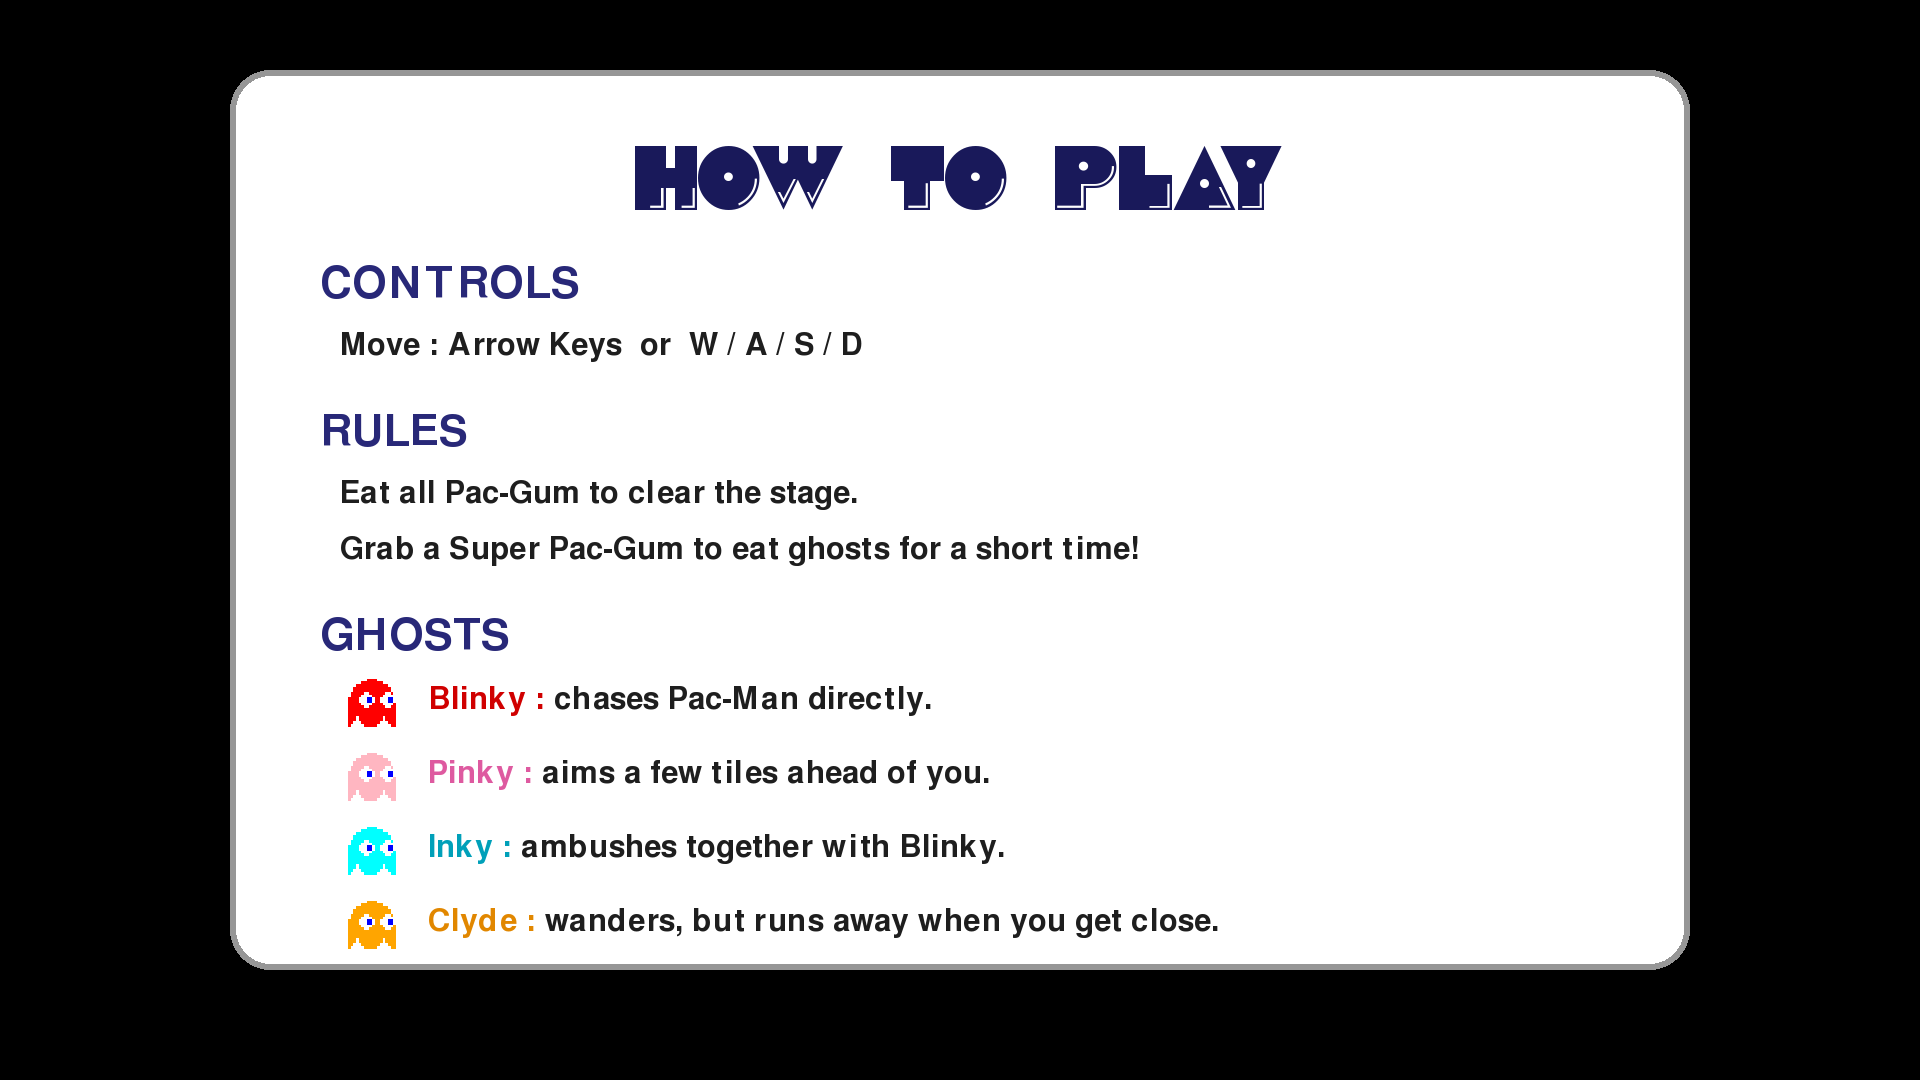
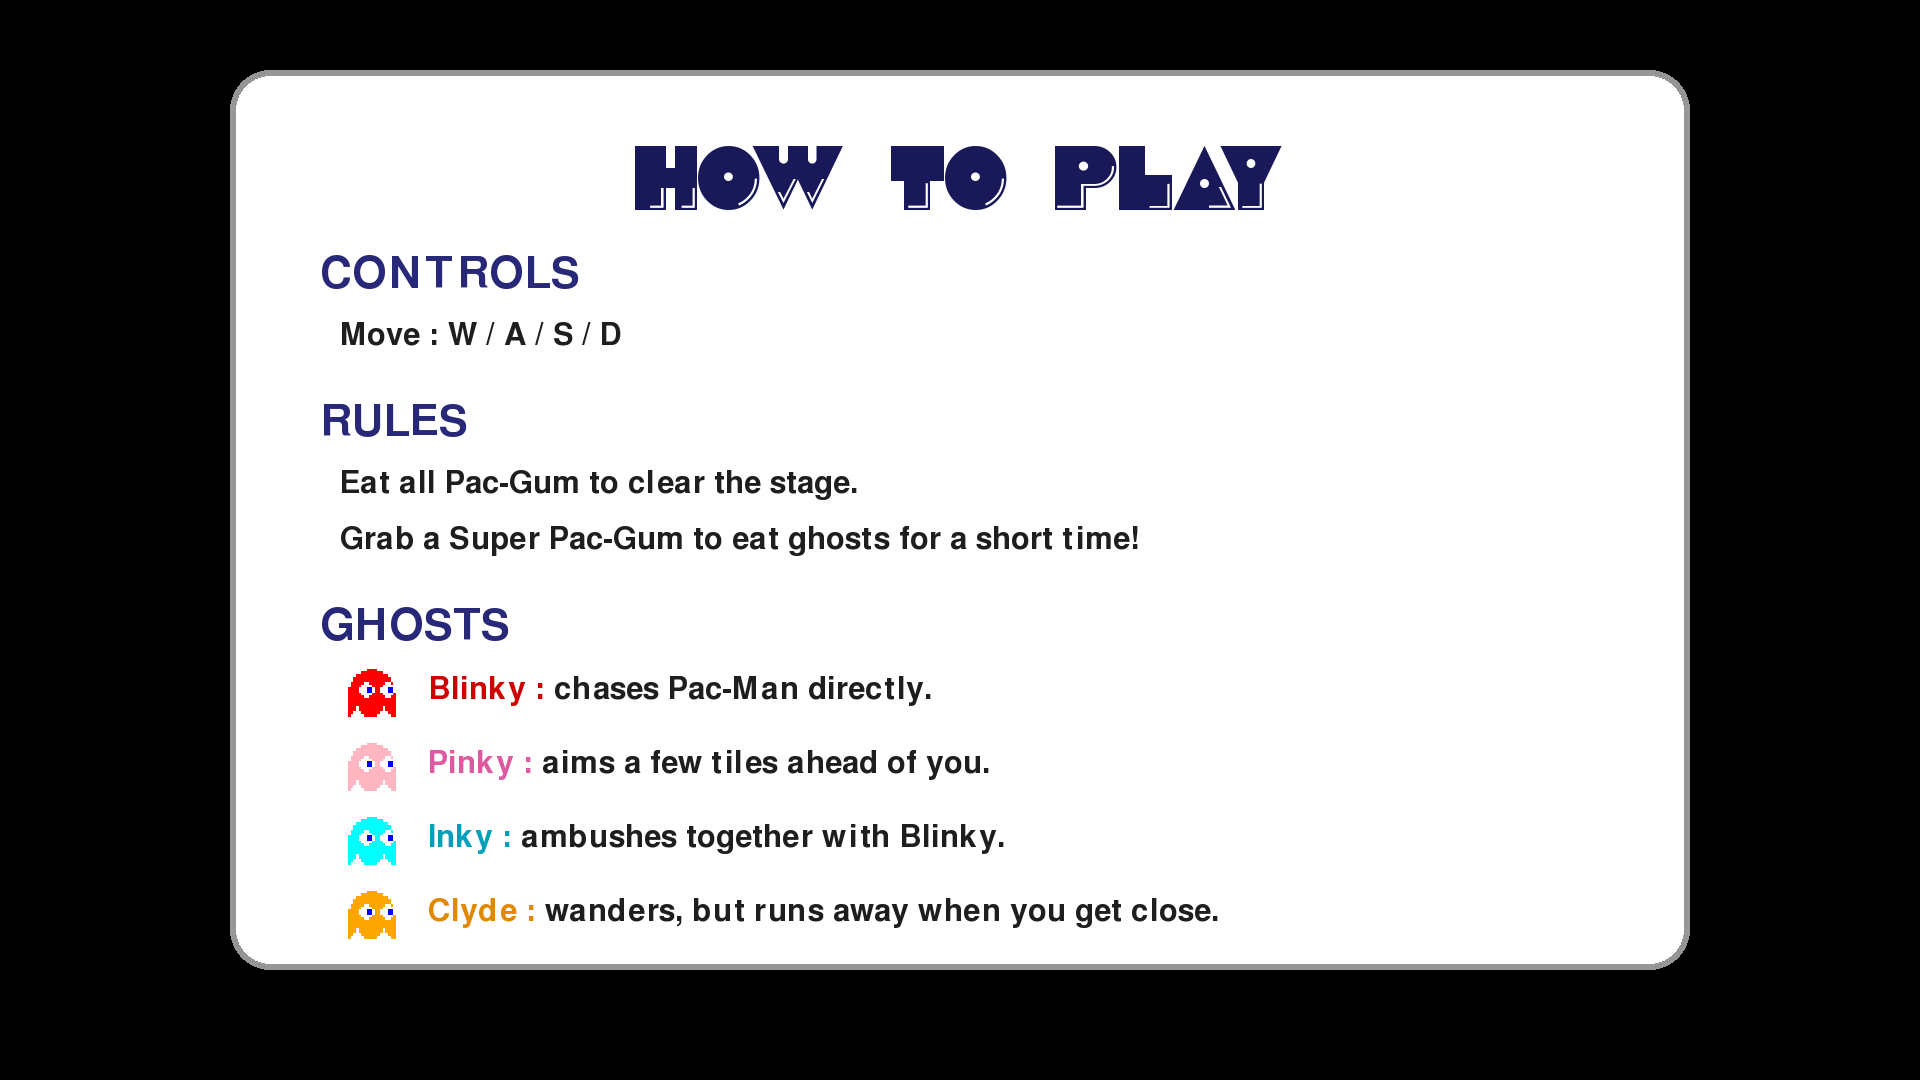
add: pacfont_32_yellow/gray color

diff --git a/txt.py b/txt.py
@@ -1,6 +1,7 @@
 # generate_assets.py (画像生成専用スクリプト)
-import pygame
 import os
+
+import pygame
 
 
 def create_pacman_images(output_dir: str) -> None:
@@ -16,32 +17,18 @@ def create_pacman_images(output_dir: str) -> None:
     pygame.image.save(surface, os.path.join(output_dir, "PACMAN_right_32.png"))
 
 
-def create_font_upper_images(output_dir: str) -> None:
+def create_font_pac_images(output_dir: str) -> None:
     pygame.font.init()
     # フォントを使用指定
-    font = pygame.font.Font("data/font/pacmania/Pacmania.otf", 256)  # フォントサイズ256
+    font = pygame.font.Font("data/font/pacmania/Pacmania.otf", 32)  # フォントサイズ256
 
-    for char_code in range(ord('A'), ord('Z') + 1):
+    for char_code in range(ord("A"), ord("Z") + 1):
         char = chr(char_code)
         # 文字を画像化（黄色）
         text_surface = font.render(char, True, (255, 255, 0))
-        pygame.image.save(text_surface, os.path.join(output_dir, f"PAC-FONT_{char}.png"))
-
-    # ハイフンの文字画像を生成
-    text_surface = font.render(chr(45), True, (255, 255, 0))
-    pygame.image.save(text_surface, os.path.join(output_dir, "PAC-FONT_-.png"))
-
-
-def create_font_lower_images(output_dir: str) -> None:
-    pygame.font.init()
-    # フォントを使用
-    font = pygame.font.Font("data/font/pacmania/Pacmania.otf", 128)  # フォントサイズ128
-
-    for char_code in range(ord('a'), ord('z') + 1):
-        char = chr(char_code)
-        # 文字を画像化（黄色）
-        text_surface = font.render(char, True, (255, 255, 0))
-        pygame.image.save(text_surface, os.path.join(output_dir, f"PAC-FONT_{char}.png"))
+        pygame.image.save(
+            text_surface, os.path.join(output_dir, f"PAC-FONT_{char}.png")
+        )
 
     # ハイフンの文字画像を生成
     text_surface = font.render(chr(45), True, (255, 255, 0))
@@ -54,25 +41,31 @@ def create_font_misaki_images(output_dir: str) -> None:
     font = pygame.font.Font("data/font/misaki/misaki_gothic_2nd.ttf", 24)
 
     # A〜Zまでの文字画像をループで一気に生成
-    for char_code in range(ord('A'), ord('Z') + 1):
+    for char_code in range(ord("A"), ord("Z") + 1):
         char = chr(char_code)
         # 文字を画像化（黄色）
         text_surface = font.render(char, True, (255, 255, 255))
-        pygame.image.save(text_surface, os.path.join(output_dir, f"misaki-FONT_{char}.png"))
+        pygame.image.save(
+            text_surface, os.path.join(output_dir, f"misaki-FONT_{char}.png")
+        )
 
     # a〜zまでの文字画像をループで一気に生成
-    for char_code in range(ord('a'), ord('z') + 1):
+    for char_code in range(ord("a"), ord("z") + 1):
         char = chr(char_code)
         # 文字を画像化（黄色）
         text_surface = font.render(char, True, (255, 255, 255))
-        pygame.image.save(text_surface, os.path.join(output_dir, f"misaki-FONT_{char}.png"))
+        pygame.image.save(
+            text_surface, os.path.join(output_dir, f"misaki-FONT_{char}.png")
+        )
 
     # 0~9までの文字画像をループで一気に生成
-    for char_code in range(ord('0'), ord('9') + 1):
+    for char_code in range(ord("0"), ord("9") + 1):
         char = chr(char_code)
         # 文字を画像化（白色）
         text_surface = font.render(char, True, (255, 255, 255))
-        pygame.image.save(text_surface, os.path.join(output_dir, f"misaki-FONT_{char}.png"))
+        pygame.image.save(
+            text_surface, os.path.join(output_dir, f"misaki-FONT_{char}.png")
+        )
 
     # ハイフンの文字画像を生成
     text_surface = font.render(chr(45), True, (255, 255, 255))
@@ -89,25 +82,31 @@ def create_font_none_images(output_dir: str) -> None:
     font = pygame.font.Font(None, 128)
 
     # A〜Zまでの文字画像をループで一気に生成
-    for char_code in range(ord('A'), ord('Z') + 1):
+    for char_code in range(ord("A"), ord("Z") + 1):
         char = chr(char_code)
         # 文字を画像化（黄色）
         text_surface = font.render(char, True, (255, 255, 255))
-        pygame.image.save(text_surface, os.path.join(output_dir, f"none-FONT_{char}.png"))
+        pygame.image.save(
+            text_surface, os.path.join(output_dir, f"none-FONT_{char}.png")
+        )
 
     # a〜zまでの文字画像をループで一気に生成
-    for char_code in range(ord('a'), ord('z') + 1):
+    for char_code in range(ord("a"), ord("z") + 1):
         char = chr(char_code)
         # 文字を画像化（黄色）
         text_surface = font.render(char, True, (255, 255, 255))
-        pygame.image.save(text_surface, os.path.join(output_dir, f"none-FONT_{char}.png"))
+        pygame.image.save(
+            text_surface, os.path.join(output_dir, f"none-FONT_{char}.png")
+        )
 
     # 0~9までの文字画像をループで一気に生成
-    for char_code in range(ord('0'), ord('9') + 1):
+    for char_code in range(ord("0"), ord("9") + 1):
         char = chr(char_code)
         # 文字を画像化（白色）
         text_surface = font.render(char, True, (255, 255, 255))
-        pygame.image.save(text_surface, os.path.join(output_dir, f"none-FONT_{char}.png"))
+        pygame.image.save(
+            text_surface, os.path.join(output_dir, f"none-FONT_{char}.png")
+        )
 
     # ハイフンの文字画像を生成
     text_surface = font.render(chr(45), True, (255, 255, 255))
@@ -121,9 +120,9 @@ def create_font_none_images(output_dir: str) -> None:
 def create_dither_images(output_dir: str) -> pygame.Surface:
     """画面全体を覆う半透明のSurfaceを作成する。
 
-        Args:
-            width (int): Surfaceの幅。
-            height (int): Surfaceの高さ。
+    Args:
+        width (int): Surfaceの幅。
+        height (int): Surfaceの高さ。
     """
     black = (0, 0, 0, 255)  # 半透明の黒
     width, height = 1920, 1080  # 画面サイズを指定
@@ -183,10 +182,10 @@ def create_how_to_play_image(output_dir: str) -> None:
     body_color = (30, 30, 30)
     bottom_color = (255, 255, 0)
     ghost_colors = {
-        "blinky": (208, 0, 0),      # 赤
-        "pinky": (222, 90, 160),    # ピンク
-        "inky": (0, 160, 185),      # 水色
-        "clyde": (225, 135, 0),     # オレンジ
+        "blinky": (208, 0, 0),  # 赤
+        "pinky": (222, 90, 160),  # ピンク
+        "inky": (0, 160, 185),  # 水色
+        "clyde": (225, 135, 0),  # オレンジ
     }
 
     # ---- 画面と角丸ボックス ----
@@ -201,8 +200,8 @@ def create_how_to_play_image(output_dir: str) -> None:
     pygame.draw.rect(screen, white, box_rect, border_radius=40)
     pygame.draw.rect(screen, gray, box_rect, width=6, border_radius=40)
 
-    center_x = box_x + box_w // 2   # 画面中央(=960)
-    inner_x = box_x + 90            # 本文の左端
+    center_x = box_x + box_w // 2  # 画面中央(=960)
+    inner_x = box_x + 90  # 本文の左端
 
     # ---- フォント(タイトルはPac風、本文は既定の読みやすいフォント) ----
     title_font = _safe_font("data/font/pacmania/Pacmania.otf", 90)
@@ -215,8 +214,13 @@ def create_how_to_play_image(output_dir: str) -> None:
         """画像をボックス中央に横中央寄せで貼る。"""
         screen.blit(image, (center_x - image.get_width() // 2, top_y))
 
-    def blit_text(text: str, font: pygame.font.Font,
-                  color: tuple[int, int, int], x: int, top_y: int) -> int:
+    def blit_text(
+        text: str,
+        font: pygame.font.Font,
+        color: tuple[int, int, int],
+        x: int,
+        top_y: int,
+    ) -> int:
         """左寄せで文字列を描画し、描画した画像の幅を返す。"""
         image = font.render(text, True, color)
         screen.blit(image, (x, top_y))
@@ -225,23 +229,28 @@ def create_how_to_play_image(output_dir: str) -> None:
     # ---- タイトル ----
     title_image = title_font.render("HOW TO PLAY", True, title_color)
     blit_center(title_image, box_y + 45)
-    y = box_y + 45 + title_image.get_height() + 30
+    y = box_y + 45 + title_image.get_height() + 20
 
     # ---- CONTROLS ----
     blit_text("CONTROLS", heading_font, heading_color, inner_x, y)
     y += 68
-    blit_text("Move : Arrow Keys  or  W / A / S / D",
-              body_font, body_color, inner_x + 20, y)
+    blit_text("Move : W / A / S / D", body_font, body_color, inner_x + 20, y)
     y += 80
 
     # ---- RULES ----
     blit_text("RULES", heading_font, heading_color, inner_x, y)
     y += 68
-    blit_text("Eat all Pac-Gum to clear the stage.",
-              body_font, body_color, inner_x + 20, y)
+    blit_text(
+        "Eat all Pac-Gum to clear the stage.", body_font, body_color, inner_x + 20, y
+    )
     y += 56
-    blit_text("Grab a Super Pac-Gum to eat ghosts for a short time!",
-              body_font, body_color, inner_x + 20, y)
+    blit_text(
+        "Grab a Super Pac-Gum to eat ghosts for a short time!",
+        body_font,
+        body_color,
+        inner_x + 20,
+        y,
+    )
     y += 80
 
     # ---- GHOSTS ----
@@ -258,16 +267,14 @@ def create_how_to_play_image(output_dir: str) -> None:
     for key, name, desc in ghost_lines:
         text_x = inner_x + 20
         # ゴーストのスプライトをアイコンとして左に貼る(無ければ文字だけ)
-        icon_path = os.path.join(
-            "data", "assets", "ghost", f"ghost_{key}_right_0.png")
+        icon_path = os.path.join("data", "assets", "ghost", f"ghost_{key}_right_0.png")
         if os.path.exists(icon_path):
             icon = pygame.image.load(icon_path)
             icon = pygame.transform.scale(icon, (icon_size, icon_size))
             screen.blit(icon, (inner_x + 20, y - 8))
             text_x = inner_x + 20 + icon_size + 24
         # 「名前(ゴースト色)」＋「説明(黒)」を横に並べる
-        name_width = blit_text(
-            f"{name} : ", ghost_font, ghost_colors[key], text_x, y)
+        name_width = blit_text(f"{name} : ", ghost_font, ghost_colors[key], text_x, y)
         blit_text(desc, ghost_font, body_color, text_x + name_width, y)
         y += icon_size + 10
 
@@ -277,16 +284,16 @@ def create_how_to_play_image(output_dir: str) -> None:
 
 if __name__ == "__main__":
     # os.makedirs("data/assets/Pacman", exist_ok=True)
-    # os.makedirs("data/assets/upper_256", exist_ok=True)
+    os.makedirs("data/assets/pacfont_32", exist_ok=True)
     # os.makedirs("data/assets/lower_128", exist_ok=True)
     # os.makedirs("data/assets/nonefont_32", exist_ok=True)
-    os.makedirs("data/assets/dither_images", exist_ok=True)
+    # os.makedirs("data/assets/dither_images", exist_ok=True)
     os.makedirs("data/assets/how_to_play", exist_ok=True)
 
     # create_pacman_images("data/assets/Pacman")
-    # create_font_upper_images("data/assets/upper_256")
+    create_font_pac_images("data/assets/pacfont_32")
     # create_font_lower_images("data/assets/lower_128")
     # create_font_none_images("data/assets/nonefont_32")
-    create_dither_images("data/assets/dither_images")
+    # create_dither_images("data/assets/dither_images")
     create_how_to_play_image("data/assets/how_to_play")
     print("画像の自動生成が完了しました！")
